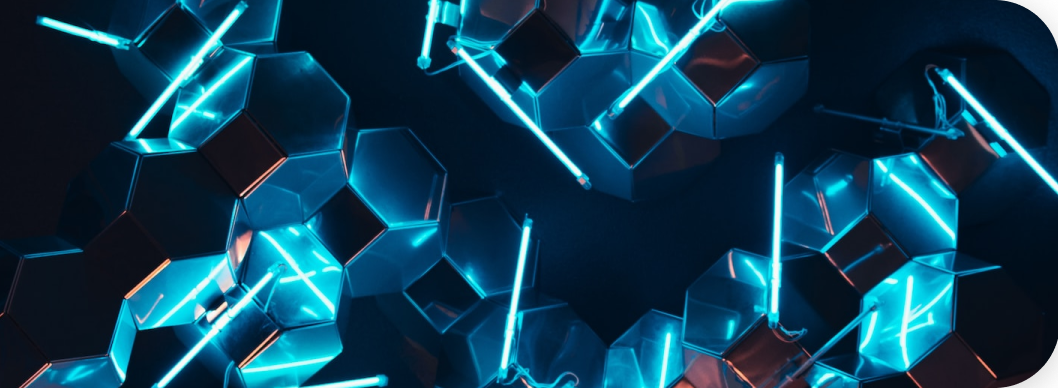
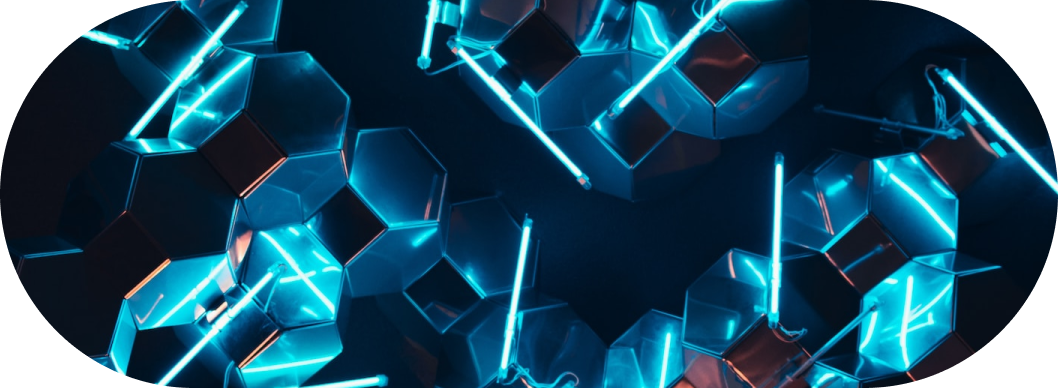
none

Changed region(s): [[0.811, 0.0, 1.0, 1.0], [0.0, 0.5876, 0.1871, 1.0], [0.0, 0.0, 0.156, 0.4021]]

diff --git a/css/style.css b/css/style.css
@@ -19,6 +19,9 @@
   margin-top: 15px;
   margin-bottom: 64px;
 }
+.logo img {
+  width: 100%;
+}
 .header__container ul {
   display: flex;
   list-style: none;
@@ -80,11 +83,12 @@ a:hover {
   margin-bottom: 48px;
 }
 .hero__img {
-  width: 1058px;
-  height: 388px;
-  border-radius: 250px;
+  width: 100%;
   overflow: hidden;
   margin-bottom: 48px;
+}
+.hero__img img {
+  width: 100%;
 }
 .stats-wrapper {
   display: flex;
@@ -105,4 +109,56 @@ a:hover {
   font-weight: 400;
   line-height: 32.78px;
   letter-spacing: -0.95px;
+}
+@media screen and (max-width: 768px) {
+  .container {
+    max-width: 659px;
+  }
+}
+@media screen and (max-width: 320px) {
+  .container {
+    max-width: 304px;
+  }
+  .logo {
+    width: 92px;
+  }
+  .header__container {
+    margin-top: 32px;
+  }
+  .header__container ul {
+    display: none;
+  }
+  .header__container .btn {
+    display: none;
+  }
+  .hero__container h1 {
+    font-size: 24px;
+    font-weight: 500;
+    line-height: 29.05px;
+    letter-spacing: 0;
+  }
+  .hero__container p {
+    font-size: 12px;
+    font-weight: 400;
+    line-height: 16.39px;
+    letter-spacing: -0.5px;
+  }
+  .btn {
+    padding: 5px, 11px, 5px, 11px;
+  }
+  .stats-wrapper {
+    display: block;
+  }
+  .stats h2 {
+    font-size: 20px;
+    font-weight: 400;
+    line-height: 24.2px;
+    letter-spacing: -0.9599999785423279px;
+  }
+  .stats p {
+    font-size: 16px;
+    font-weight: 400;
+    line-height: 19.36px;
+    letter-spacing: -0.9599999785423279px;
+  }
 }

diff --git a/index.html b/index.html
@@ -4,6 +4,12 @@
     <meta charset="UTF-8" />
     <meta name="viewport" content="width=device-width, initial-scale=1.0" />
     <title>FutureSphere</title>
+    <link rel="preconnect" href="https://fonts.googleapis.com" />
+    <link rel="preconnect" href="https://fonts.gstatic.com" crossorigin />
+    <link
+      href="https://fonts.googleapis.com/css2?family=Inter:wght@100..900&family=Manrope:wght@200..800&display=swap"
+      rel="stylesheet"
+    />
     <link rel="stylesheet" href="./css/style.css" />
   </head>
   <body>
@@ -30,11 +36,13 @@
           <button class="btn btn--light">Contact Us</button>
         </div>
         <div class="hero__img">
-          <img
-            src="./imgs/hero.png"
-            srcset="./imgs/hero.png 1x, ./imgs/hero@2x.png 2x"
-            alt="simple img"
-          />
+          <picture>
+            <source media="(max-width:320px)" srcset="./imgs/hero-m.png" />
+            <img
+              src="./imgs/hero.png"
+              srcset="./imgs/hero.png 1x, ./imgs/hero@2x.png 2x"
+              alt="simple img"
+          /></picture>
         </div>
         <div class="stats-wrapper">
           <div class="stats">
